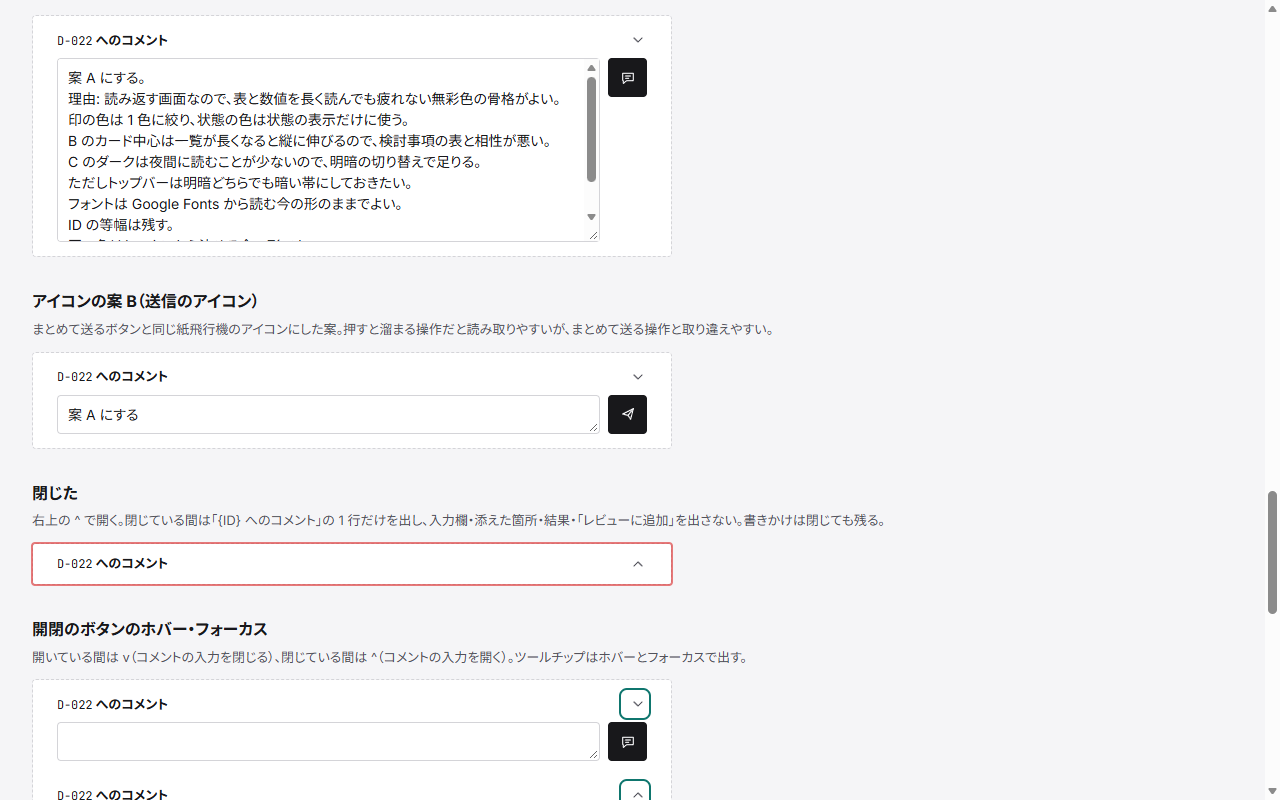
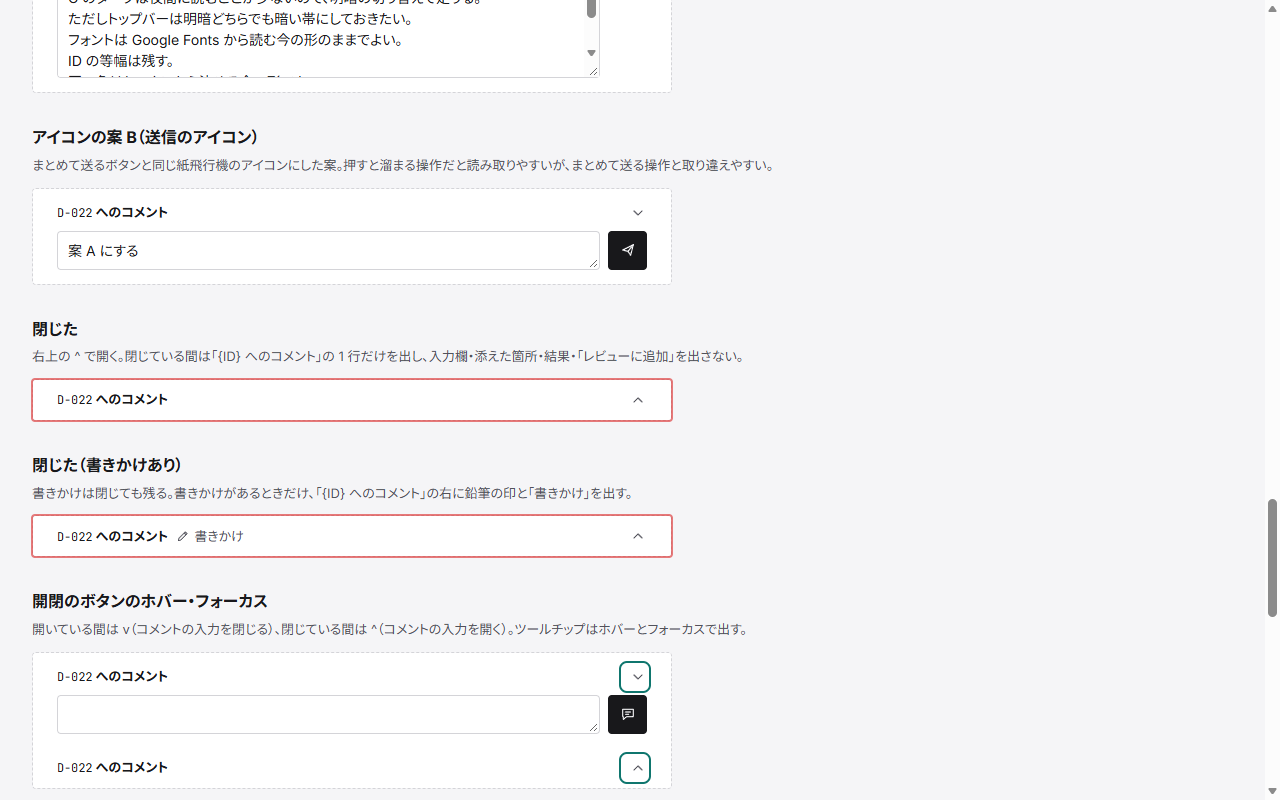
docs: 開閉の確認の決着を反映し、閉じた入力の書きかけの印をモックに追加 (#473)

diff --git a/dev/mock/components/send-form/index.html b/dev/mock/components/send-form/index.html
@@ -135,8 +135,13 @@ ID の等幅は残す。
     </section>
     <section class="cat-sec">
       <h2>閉じた</h2>
-      <p>右上の ^ で開く。閉じている間は「{ID} へのコメント」の 1 行だけを出し、入力欄・添えた箇所・結果・「レビューに追加」を出さない。書きかけは閉じても残る。</p>
+      <p>右上の ^ で開く。閉じている間は「{ID} へのコメント」の 1 行だけを出し、入力欄・添えた箇所・結果・「レビューに追加」を出さない。</p>
       <div class="stage"><form class="send send-footer is-closed" novalidate onsubmit="return false"><div class="send-head"><span class="send-label"><span class="mono">D-022</span> へのコメント</span><button class="icon-btn send-toggle" type="button" aria-expanded="false" aria-controls="sf-c1-body" aria-label="コメントの入力を開く" title="コメントの入力を開く"><svg class="icon" viewBox="0 0 24 24" aria-hidden="true"><path d="m9 6 6 6-6 6"/></svg></button></div><div class="send-body" id="sf-c1-body" hidden></div></form></div>
+    </section>
+    <section class="cat-sec">
+      <h2>閉じた（書きかけあり）</h2>
+      <p>書きかけは閉じても残る。書きかけがあるときだけ、「{ID} へのコメント」の右に鉛筆の印と「書きかけ」を出す。</p>
+      <div class="stage"><form class="send send-footer is-closed" novalidate onsubmit="return false"><div class="send-head"><span class="send-label"><span class="mono">D-022</span> へのコメント</span><span class="send-draft"><svg class="icon" viewBox="0 0 24 24" aria-hidden="true"><path d="m4 20 1-4L16 5l3 3L8 19Z"/><path d="m14 7 3 3"/></svg>書きかけ</span><button class="icon-btn send-toggle" type="button" aria-expanded="false" aria-controls="sf-c5-body" aria-label="コメントの入力を開く" title="コメントの入力を開く"><svg class="icon" viewBox="0 0 24 24" aria-hidden="true"><path d="m9 6 6 6-6 6"/></svg></button></div><div class="send-body" id="sf-c5-body" hidden></div></form></div>
     </section>
     <section class="cat-sec">
       <h2>開閉のボタンのホバー・フォーカス</h2>
@@ -165,8 +170,8 @@ ID の等幅は残す。
     </section>
     <section class="cat-sec">
       <h2>閉じた（最も狭い幅 320px）</h2>
-      <p>閉じても開閉のボタンの幅は保つ。</p>
-      <div class="stage narrowest"><form class="send send-footer is-closed" novalidate onsubmit="return false"><div class="send-head"><span class="send-label"><span class="mono">D-022</span> へのコメント</span><button class="icon-btn send-toggle" type="button" aria-expanded="false" aria-controls="sf-c4-body" aria-label="コメントの入力を開く" title="コメントの入力を開く"><svg class="icon" viewBox="0 0 24 24" aria-hidden="true"><path d="m9 6 6 6-6 6"/></svg></button></div><div class="send-body" id="sf-c4-body" hidden></div></form></div>
+      <p>閉じても開閉のボタンの幅は保つ。書きかけの印があるときも 1 行に収める。</p>
+      <div class="stage narrowest"><form class="send send-footer is-closed" novalidate onsubmit="return false"><div class="send-head"><span class="send-label"><span class="mono">D-022</span> へのコメント</span><button class="icon-btn send-toggle" type="button" aria-expanded="false" aria-controls="sf-c4-body" aria-label="コメントの入力を開く" title="コメントの入力を開く"><svg class="icon" viewBox="0 0 24 24" aria-hidden="true"><path d="m9 6 6 6-6 6"/></svg></button></div><div class="send-body" id="sf-c4-body" hidden></div></form><form class="send send-footer is-closed" novalidate onsubmit="return false"><div class="send-head"><span class="send-label"><span class="mono">D-022</span> へのコメント</span><span class="send-draft"><svg class="icon" viewBox="0 0 24 24" aria-hidden="true"><path d="m4 20 1-4L16 5l3 3L8 19Z"/><path d="m14 7 3 3"/></svg>書きかけ</span><button class="icon-btn send-toggle" type="button" aria-expanded="false" aria-controls="sf-c6-body" aria-label="コメントの入力を開く" title="コメントの入力を開く"><svg class="icon" viewBox="0 0 24 24" aria-hidden="true"><path d="m9 6 6 6-6 6"/></svg></button></div><div class="send-body" id="sf-c6-body" hidden></div></form></div>
     </section>
   </main>
 </body>

diff --git a/dev/mock/refs/473/assets/style.css b/dev/mock/refs/473/assets/style.css
@@ -47,3 +47,12 @@
 .send-body { display: contents; }
 /* 閉じた範囲: 出さない */
 .send-body[hidden] { display: none; }
+
+/* 閉じた入力の書きかけの印: 見出しの文字の右に、補足の文字色で小さく出す */
+.send-draft { flex: none; display: inline-flex; align-items: center; gap: 4px; font-size: var(--fs-small); color: var(--text-2); }
+/* 書きかけの印のアイコン: 文字と同じ大きさにする */
+.send-draft svg.icon { width: 14px; height: 14px; }
+/* 書きかけの印がある見出しの行: 見出しの文字は印の手前で省く */
+.send-head:has(.send-draft) .send-label { flex: 0 1 auto; }
+/* 書きかけの印の後ろを空けて、開閉のボタンを右端に寄せる */
+.send-head .send-draft + .send-toggle { margin-left: auto; }

diff --git a/dev/pr/473/要件.md b/dev/pr/473/要件.md
@@ -22,26 +22,8 @@
 | 本文のコピー | コメントの入力の、サーバーにつながらず溜められなかったときに出す「本文を写す」を、コピーのアイコンだけのボタンにする。読み上げの名前とツールチップは「本文をコピー」にする |
 
 | 入力の開閉 | 詳細パネル・詳細の全画面の下端のコメントの入力の右上（「{ID} へのコメント」の行の右端）に、アイコンだけの開閉のボタンを配置する。開いている間は v（読み上げの名前とツールチップは「コメントの入力を閉じる」）、閉じている間は ^（「コメントの入力を開く」）にし、`aria-expanded` で開閉を伝える。閉じている間は「{ID} へのコメント」の 1 行だけを出し、入力欄・添えた箇所・結果・「レビューに追加」を出さない。書きかけは閉じても残す。選んだ箇所の入口を押したときは開いてから入力欄へフォーカスを移す |
+| 開閉を置く入力 | 詳細パネル・詳細の全画面の下端のコメントの入力だけに置く。項目を指さないコメント（コメントの一覧の新しいスレッドの入力）とスレッドの返信の入力には置かない |
+| 開閉を覚える範囲 | この端末に覚え、項目を移っても・開き直しても同じ開閉で出す |
+| 閉じた入力の書きかけ | 閉じている間に書きかけがあるときだけ、「{ID} へのコメント」の右に鉛筆の印と「書きかけ」を出す |
+
 <!-- /table -->
-
-`未確定`: 開閉のボタンを置く入力（決める段: モック作成）
-
-| 案 | 内容 | メリット | デメリット |
-| --- | --- | --- | --- |
-| A | 詳細パネル・詳細の全画面の下端のコメントの入力だけ | 本文の下に常に出ていて場所を取る入力だけに絞れる | スレッドの返信の入力は開閉できない |
-| B | A に加えてスレッドの下端の返信の入力も | 入力の見た目と操作が揃う | スレッドは返信を書く画面で、閉じる場面が少ない |
-
-推奨: A
-
-要望の「基本固定」の入力は、本文を読む間も下端に出続ける詳細のコメントの入力のため。
-
-`未確定`: 開閉を覚える範囲（決める段: モック作成）
-
-| 案 | 内容 | メリット | デメリット |
-| --- | --- | --- | --- |
-| A | この端末に覚え、項目を移っても・開き直しても同じ開閉で出す | 一度閉じれば読む間ずっと閉じたままにできる | 閉じたことを忘れると、入力の場所が分かりにくい |
-| B | 覚えず、詳細を開くたびに開いた形で出す | 入力の場所がいつも分かる | 項目を移るたびに閉じ直す |
-
-推奨: A
-
-本文を読む場所を空けたいという要望のため、項目を移るたびに閉じ直させない。閉じても「{ID} へのコメント」の行と ^ は残るため、入力の場所は分かる。

diff --git a/dev/mock/components/index.md b/dev/mock/components/index.md
@@ -30,7 +30,7 @@
 | [reply-form](./reply-form/index.html) | 返信の入力（空・入力中・ボタンのフォーカス・溜めている・レビューに追加した・追加できなかった・長文のボタンの縦の位置の 2 案・開閉のボタンの案 B・狭い幅） |
 | [review-body-fold](./review-body-fold/index.html) | レビュー中の書き込みの本文の折りたたみ（5 行以下・改行で超える・改行の無い長文・開いた・返信・ホバーとフォーカス・狭い幅。本文のすぐ下の案 A と「スレッドを開く」と同じ行の案 B） |
 | [review-row](./review-row/index.html) | レビュー中の書き込みの行（新しいスレッド・返信・クローズのスレッドへの返信・チェックを外した・修正と消した・示している行・狭い幅） |
-| [send-form](./send-form/index.html) | コメントの入力（空・入力中・ボタンのホバーとフォーカス・箇所を添えた・溜めている・溜めた・本文が空・溜められなかった・長文のボタンの縦の位置の 2 案・アイコンの案・開閉のボタンと閉じた形・項目を指さない・畳んだ形・狭い幅） |
+| [send-form](./send-form/index.html) | コメントの入力（空・入力中・ボタンのホバーとフォーカス・箇所を添えた・溜めている・溜めた・本文が空・溜められなかった・長文のボタンの縦の位置の 2 案・アイコンの案・開閉のボタンと閉じた形・書きかけの印・項目を指さない・畳んだ形・狭い幅） |
 | [table](./table/index.html) | 表（並べ替え・列の絞り込み・条件のチップ・ピン留め・表示する列・該当なし・A 案の列の見出しの文字の絞り込み） |
 | [term-tip](./term-tip/index.html) | 本文の印のツールチップ（用語だけ・用語と資料・調査の見出しと区切り線・説明の無い資料・件数が多いときの中のスクロール・上に収まらないとき・リンクのホバーとフォーカス・長いタイトル・狭い幅）と、資料・調査の詳細の説明とエイリアス |
 | [thread-row](./thread-row/index.html) | スレッドの行（AI が返信した・レビュー中の返信を持つ・AI が立てた・最後の書き手が利用者・まだ送っていない新しいスレッド・クローズ・長い要約・タグで絞っている・ホバーとフォーカス・一覧の全体・新しいスレッドを書く・0 件・狭い幅） |

diff --git a/dev/pr/473/プレビュー.md b/dev/pr/473/プレビュー.md
@@ -28,7 +28,7 @@
 | 配置 | 入力欄とボタンを 1 行に並べ、入力欄を残りの幅いっぱいに広げる。結果の行は入力欄の下に幅いっぱいで出し、空の間は高さを取らない | ボタンは入力欄の下端に合わせる |
 | 狭い幅 | 部品の幅によらず同じ並びにし、結果を下の行に移すコンテナクエリ（`@max-send-narrow`・`.send-row` の折り返し）を不要にする | Narrow のストーリーは残し、390px・320px で入力欄がつぶれないことを確認する |
 | 本文のコピー | コメントの入力の「本文を写す」を、コピーのアイコンだけのボタン（`aria-label`・`title` は「本文をコピー」）にする | 理由の文の下に置く |
-| 入力の開閉 | コメントの入力の「{ID} へのコメント」の行の右端に開閉のボタン（アイコンだけ・`aria-expanded`）を置き、閉じている間はその 1 行だけを出す | 置く入力と覚える範囲は `未確定`（[要件](./要件.md)） |
+| 入力の開閉 | コメントの入力の「{ID} へのコメント」の行の右端に開閉のボタン（アイコンだけ・`aria-expanded`）を置き、閉じている間はその 1 行だけを出す | 詳細のコメントの入力だけに置き、開閉はこの端末に覚える。閉じた間に書きかけがあれば鉛筆の印と「書きかけ」を出す |
 | 押せない状態・キーの操作 | 変更しない | - |
 | アクセシビリティ | 読み上げの名前とツールチップは変えず、フォーカスの輪は既存のボタンと同じにする。タップ領域は 1 行の入力欄と同じ高さの正方形で、タッチが主な端末では 44 x 44 CSS px にする | - |
 | 既存機能への影響 | `get_by_role("button", name="レビューに追加")` で押す E2E・結合テストは読み上げの名前が変わらないため変更しない | - |

diff --git a/dev/mock/refs/473/index.md b/dev/mock/refs/473/index.md
@@ -5,5 +5,5 @@
 
 | 部品 | 中身 |
 | --- | --- |
-| [send-form](../../components/send-form/index.html) | コメントの入力（空・入力中・ボタンのホバーとフォーカス・箇所を添えた・溜めている・溜めた・本文が空・溜められなかった・長文のボタンの縦の位置の 2 案・アイコンの案 B・開閉のボタンと閉じた形・項目を指さない・畳んだ形・狭い幅） |
+| [send-form](../../components/send-form/index.html) | コメントの入力（空・入力中・ボタンのホバーとフォーカス・箇所を添えた・溜めている・溜めた・本文が空・溜められなかった・長文のボタンの縦の位置の 2 案・アイコンの案 B・開閉のボタンと閉じた形・書きかけの印・項目を指さない・畳んだ形・狭い幅） |
 | [reply-form](../../components/reply-form/index.html) | 返信の入力（空・入力中・ボタンのフォーカス・溜めている・レビューに追加した・追加できなかった・長文のボタンの縦の位置の 2 案・開閉のボタンを置く案 B・狭い幅） |
